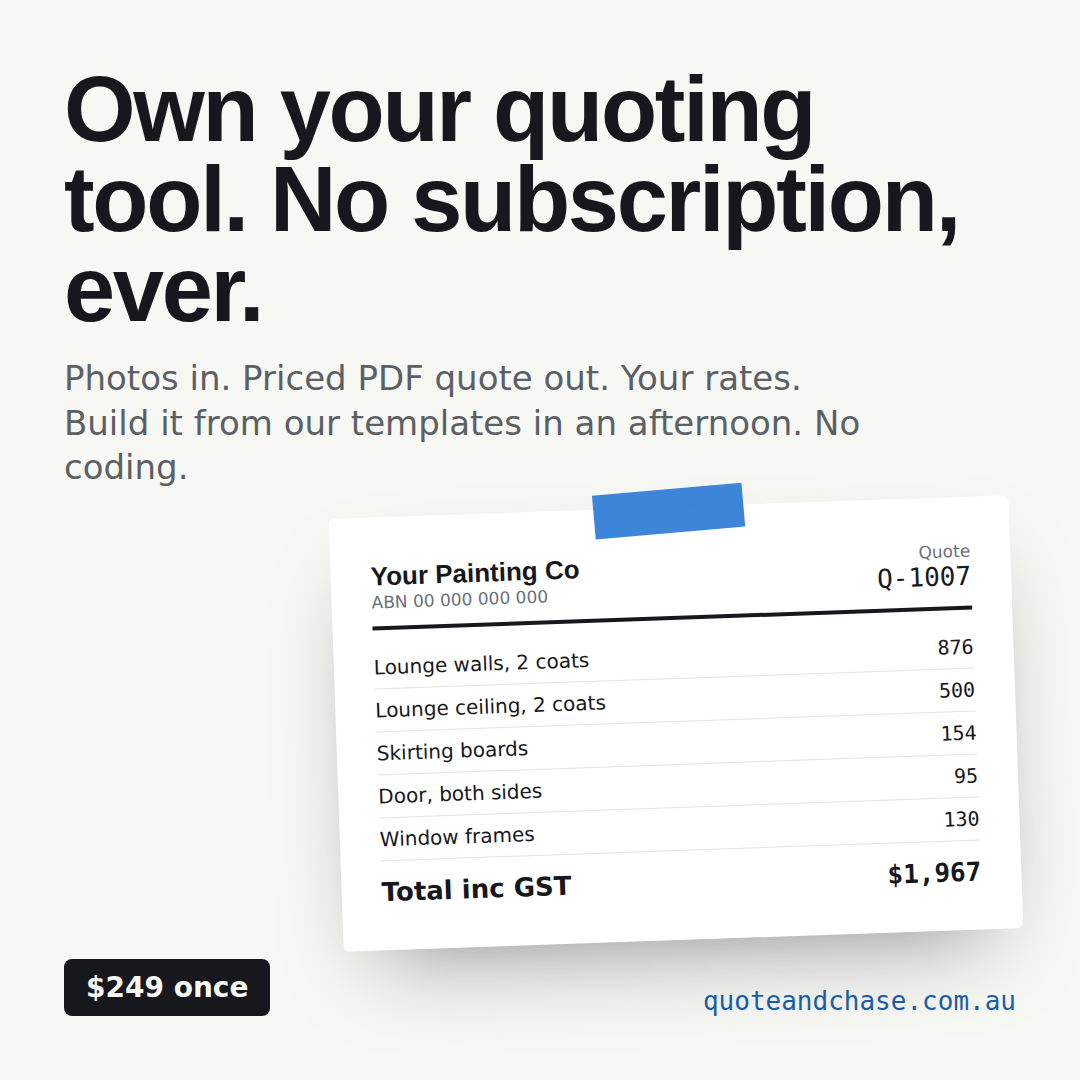
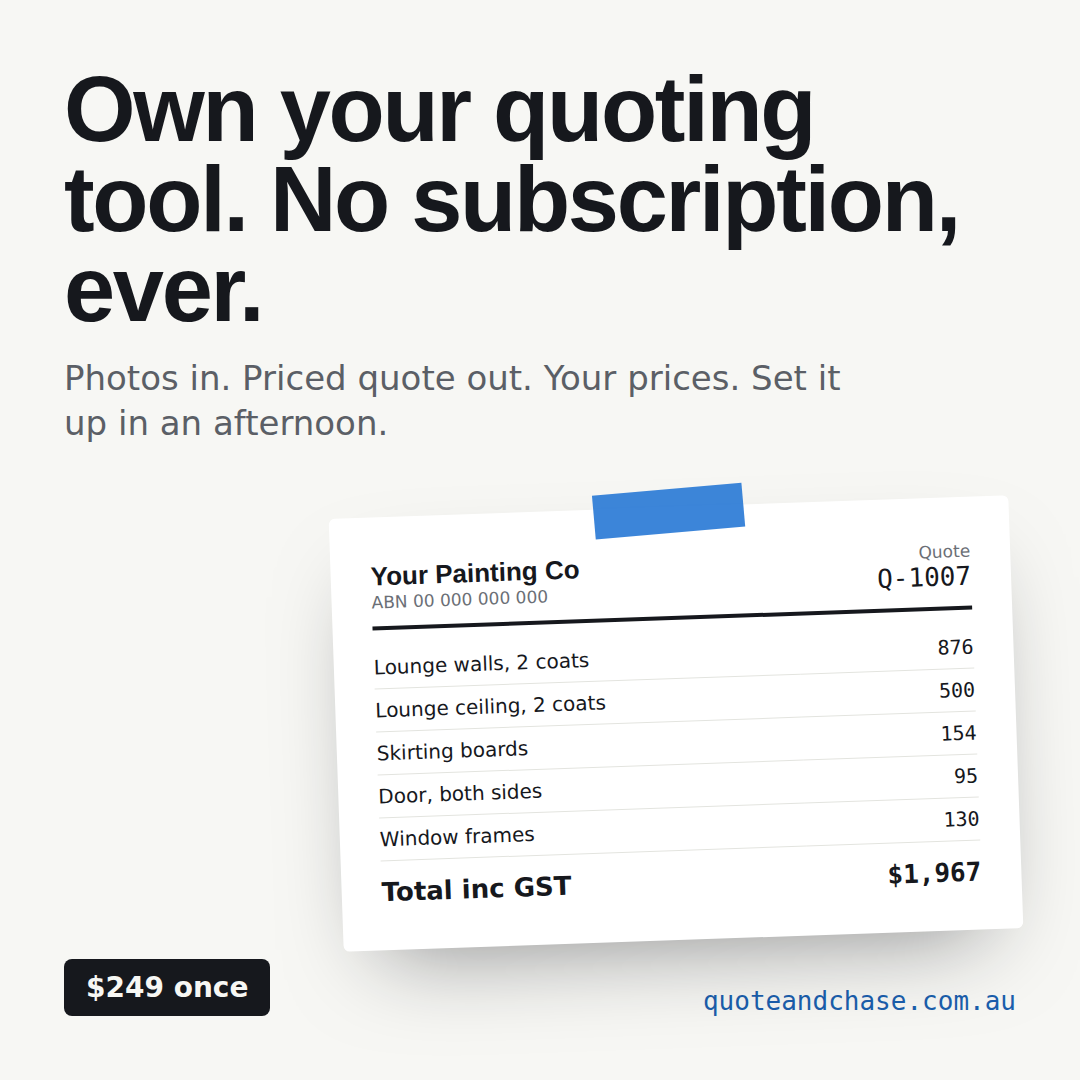
Plain-language copy: no commands, no jargon, Claude mentioned once
Claude-Session: https://claude.ai/code/session_01LwWqiJA3JDqKLsHUwEyFqC

Changed region(s): [[0.0611, 0.3361, 0.7944, 0.4583]]

diff --git a/quote-and-chase-landing/public/index.html b/quote-and-chase-landing/public/index.html
@@ -4,9 +4,9 @@
 <meta charset="utf-8">
 <meta name="viewport" content="width=device-width, initial-scale=1, viewport-fit=cover">
 <title>Quote and Chase</title>
-<meta name="description" content="A quoting tool for painters that you own. Photos in, PDF quote out, your rates. Build it from our templates in an afternoon. No subscription, ever.">
+<meta name="description" content="A quoting tool painters own. Photos in, priced quote out, your prices. Set it up in an afternoon. No subscription, ever.">
 <meta property="og:title" content="Quote and Chase: own your quoting tool">
-<meta property="og:description" content="Photos in, PDF quote out, your rates. Build it from our templates in an afternoon. $249 once, no subscription.">
+<meta property="og:description" content="Photos in, priced quote out, your prices. $249 once, no subscription.">
 <link rel="preconnect" href="https://fonts.googleapis.com">
 <link rel="preconnect" href="https://fonts.gstatic.com" crossorigin>
 <link rel="stylesheet" href="https://fonts.googleapis.com/css2?family=Bricolage+Grotesque:opsz,wght@12..96,500;12..96,700;12..96,800&family=Instrument+Sans:ital,wght@0,400;0,500;0,600;1,400&family=IBM+Plex+Mono:wght@400;500&display=swap">
@@ -124,10 +124,9 @@ nav .btn{padding:.6em 1em;font-size:.92rem}
 .fact small{font-family:var(--mono);font-size:.72rem;color:var(--muted)}
 
 /* how */
-.steps{display:grid;gap:22px;counter-reset:s}
+.steps{display:grid;gap:22px}
 @media (min-width:860px){.steps{grid-template-columns:repeat(3,1fr)}}
 .step{background:var(--soft);border-radius:8px;padding:22px;display:grid;gap:12px;align-content:start}
-.step::before{counter-increment:s;content:counter(s);font-family:var(--display);font-weight:800;font-size:2rem;line-height:1;color:var(--tape-deep)}
 .step code{font-family:var(--mono);font-size:.9rem;background:var(--paper);color:var(--doc-ink);padding:.35em .55em;border-radius:4px;display:inline-block;border:1px solid var(--line)}
 .step p{color:var(--muted)}
 
@@ -235,14 +234,14 @@ footer .wrap{display:grid;gap:8px}
 <header class="hero wrap" id="top">
   <div class="grid">
     <div class="stack">
-      <p class="eyebrow">A quoting tool for painters. Yours.</p>
+      <p class="eyebrow">For painters</p>
       <h1>Own your quoting tool. No subscription, ever.</h1>
-      <p class="lede">Photos in, priced PDF quote out, your rates. Build it from our templates in an afternoon. No coding.</p>
+      <p class="lede">Take photos of the room. Get a priced quote with your name on it. It lives on your laptop, uses your prices, and it's yours.</p>
       <div class="actions">
-        <a class="btn tape" href="#try">See what you'd own</a>
+        <a class="btn tape" href="#try">Try it on a wall</a>
         <a class="btn ghost" href="#price">Get it, $249 once</a>
       </div>
-      <p class="fine">Windows or Mac. Under an hour of lessons. <a href="sample-quote.pdf" target="_blank" rel="noopener">See a quote it made (PDF)</a>.</p>
+      <p class="fine">Windows or Mac. Set up in an afternoon. <a href="sample-quote.pdf" target="_blank" rel="noopener">See a quote it wrote (PDF)</a>.</p>
     </div>
 
     <div class="paper" aria-label="Example quote">
@@ -296,27 +295,27 @@ footer .wrap{display:grid;gap:8px}
 
 <div class="wrap">
   <div class="strip">
-    <div><b>Pay once</b><span>No per-job fees.</span></div>
-    <div><b>You build it</b><span>So you own it.</span></div>
-    <div><b>Nothing sent without you</b><span>It drafts. You send.</span></div>
-    <div><b>Change anything</b><span>It's just files in a folder.</span></div>
+    <div><b>Pay once</b><span>Not every month.</span></div>
+    <div><b>Your prices</b><span>Not ours.</span></div>
+    <div><b>You send it</b><span>It never does.</span></div>
+    <div><b>Yours to keep</b><span>Nobody can switch it off.</span></div>
   </div>
 </div>
 
 <section id="problem">
   <div class="wrap grid" style="gap:14px">
     <h2>You didn't start a painting business to type quotes at 9pm.</h2>
-    <p class="lede">Job software bills you per job and still leaves you doing the typing.</p>
+    <p class="lede">The apps charge you every month, and you still do the typing.</p>
   </div>
 </section>
 
 <section id="how">
   <div class="wrap grid" style="gap:28px">
-    <h2>Three commands. You build all three.</h2>
+    <h2>What it does</h2>
     <div class="steps">
-      <div class="step"><code>/quote 12 Wattle St</code><p>Photos and notes in. PDF quote out, with every assumption listed.</p></div>
-      <div class="step"><code>/invoice Q-1007 deposit</code><p>Deposit, final or full. Your bank details, your terms.</p></div>
-      <div class="step"><code>/chase</code><p>Who owes you, with the reminders drafted in your voice.</p></div>
+      <div class="step"><h3>Quotes</h3><p>Photos and a few notes in. A priced PDF quote out, with what it assumed written down for you to check.</p></div>
+      <div class="step"><h3>Invoices</h3><p>Deposit, final, or the lot. Your bank details, your terms, the due date worked out.</p></div>
+      <div class="step"><h3>Chasing</h3><p>Every Monday: who owes you, and the reminder messages written in your words. You copy, you send.</p></div>
     </div>
   </div>
 </section>
@@ -324,9 +323,9 @@ footer .wrap{display:grid;gap:8px}
 <section id="try" class="try">
   <div class="wrap grid">
     <div class="grid" style="gap:18px;align-content:start">
-      <p class="eyebrow">See what you'll build</p>
+      <p class="eyebrow">Try it</p>
       <h2>Point your phone at any wall.</h2>
-      <p class="lede">A sample quote in about twenty seconds.</p>
+      <p class="lede">You'll get a sample quote back in about twenty seconds.</p>
       <div class="qrbox only-desk">
         <div id="qr" aria-label="QR code linking to this demo"><img src="qr.svg" alt="QR code linking to this demo" width="220" height="220"></div>
         <b style="font-family:var(--display)">Scan with your phone</b>
@@ -337,9 +336,9 @@ footer .wrap{display:grid;gap:8px}
     <div class="demo" id="demo">
       <label class="drop" id="drop" for="photo">
         <img id="preview" alt="" hidden>
-        <span id="drop-text" class="only-desk"><b>Or choose a photo from this computer</b></span>
+        <span id="drop-text" class="only-desk"><b>Or pick a photo from this computer</b></span>
         <input type="file" id="photo" accept="image/*" capture="environment">
-        <span class="btn tape bigbtn" aria-hidden="true"><span class="only-desk-inline">Choose a photo</span><span class="only-phone-inline">Take a photo of a wall</span></span>
+        <span class="btn tape bigbtn" aria-hidden="true"><span class="only-desk-inline">Pick a photo</span><span class="only-phone-inline">Take a photo of a wall</span></span>
       </label>
       <textarea id="notes" placeholder="Optional: anything the photo doesn't show. e.g. Lounge, 5 by 4 m, same colour."></textarea>
       <button class="btn" id="go" type="button" disabled>Get a sample quote</button>
@@ -347,10 +346,10 @@ footer .wrap{display:grid;gap:8px}
       <div class="result" id="result" hidden></div>
       <form class="cap laptop" id="laptop" data-capture="laptop" action="#" method="post" hidden>
         <input type="hidden" name="list" value="send-to-laptop">
-        <label for="laptop-email"><b>Building it happens on a laptop.</b> Email yourself the link and the sample quote.</label>
+        <label for="laptop-email"><b>Setting it up happens on a laptop.</b> Email yourself the link and the sample quote.</label>
         <div class="row"><input type="email" id="laptop-email" name="email" placeholder="you@yourpainting.com.au" required autocomplete="email"><button class="btn tape" type="submit">Send to my laptop</button></div>
       </form>
-      <p class="fine" style="color:var(--muted);font-size:.85rem">Photo not stored. Demo prices, not an offer of work.</p>
+      <p class="fine" style="color:var(--muted);font-size:.85rem">Your photo isn't kept. Sample prices, not an offer of work.</p>
     </div>
   </div>
 </section>
@@ -358,24 +357,24 @@ footer .wrap{display:grid;gap:8px}
 <section id="inside">
   <div class="wrap grid g2" style="gap:40px">
     <div class="grid" style="gap:22px;align-content:start">
-      <h2>What's inside</h2>
+      <h2>What you get</h2>
       <ul class="list">
-        <li><div><b>Seven lessons, under an hour</b></div></li>
-        <li><div><b>Double-click set-up, Windows and Mac</b></div></li>
-        <li><div><b>The /quote, /invoice and /chase templates</b></div></li>
-        <li><div><b>A painter's price list and measuring rules</b></div></li>
-        <li><div><b>Quote and invoice templates</b></div></li>
-        <li><div><b>A safety file, and a sample job to practise on</b></div></li>
+        <li><div><b>Set-up that's a double-click, Windows or Mac</b></div></li>
+        <li><div><b>Seven short videos, under an hour all up</b></div></li>
+        <li><div><b>A painter's price list you change to yours</b></div></li>
+        <li><div><b>Quote and invoice layouts with your details on them</b></div></li>
+        <li><div><b>A practice job, so the first one just works</b></div></li>
+        <li><div><b>A person on email when you're stuck</b></div></li>
       </ul>
     </div>
     <div class="grid" style="gap:16px;align-content:start">
       <div class="not">
         <h3>Not included</h3>
-        <p>Scheduling, payments, client logins. Keep what you use for those.</p>
+        <p>Bookings, taking payments, client logins. Keep what you use for those.</p>
       </div>
       <div class="not">
         <h3>You need</h3>
-        <p>Windows 10 or 11, or macOS 13+. A Claude Pro subscription, paid to Anthropic.</p>
+        <p>A Windows or Mac laptop, and a Claude subscription. That's the brains behind it, about $30 a month, paid to them, not us.</p>
       </div>
     </div>
   </div>
@@ -395,11 +394,11 @@ footer .wrap{display:grid;gap:8px}
       <div class="tier featured">
         <p class="eyebrow">Own it</p>
         <div class="price">$249<small>AUD, once</small></div>
-        <p class="tierlede">Build it yourself from our templates in an afternoon. Runs on your laptop. No subscription, ever.</p>
+        <p class="tierlede">You set it up on your laptop in an afternoon, following the videos. Then it's yours.</p>
         <ul>
-          <li>Seven lessons and the installers</li>
-          <li>All the templates</li>
+          <li>Everything above</li>
           <li>Updates for a year</li>
+          <li>Email help with the set-up</li>
         </ul>
         <div class="buy">
           <a class="btn tape" href="#" data-checkout>Get it</a>
@@ -408,11 +407,11 @@ footer .wrap{display:grid;gap:8px}
       <div class="tier">
         <p class="eyebrow">We run it for you</p>
         <div class="price">$39<small>AUD a month</small></div>
-        <p class="tierlede">Same tool, hosted by us. Nothing to install, works on your phone. Your prices, wording and templates export any time, and the course is included, so if you ever leave, you leave with the tool.</p>
+        <p class="tierlede">Nothing to set up. Works on your phone. If you ever leave, you take your prices and your tool with you.</p>
         <ul>
           <li>Founding list, opening <span data-hosted-date>later this year</span></li>
           <li>Founding members keep this price</li>
-          <li>Cancel any time, take your tool with you</li>
+          <li>Cancel any time</li>
         </ul>
         <div class="buy">
           <a class="btn ghost" href="#" data-hosted>Join the founding list</a>
@@ -424,8 +423,8 @@ footer .wrap{display:grid;gap:8px}
         </div>
       </div>
     </div>
-    <div class="guarantee" style="max-width:720px"><b>One working quote in 14 days, or your money back.</b>Or switch to the hosted version and we credit your $249 to the first year.</div>
-    <p class="fine" style="color:var(--muted)">Founding price. Written lessons and templates today; video lessons <span data-lessons-date>within 14 days of purchase</span>.</p>
+    <div class="guarantee" style="max-width:720px"><b>One real quote out in 14 days, or your money back.</b>Or switch to the run-it-for-you version and we credit the $249.</div>
+    <p class="fine" style="color:var(--muted)">Founding price. The tool and written guide today; the videos <span data-lessons-date>within 14 days of purchase</span>.</p>
     <form id="waitlist" action="#" method="post" data-form class="waitform">
       <input type="hidden" name="list" value="sample-quote">
       <label for="email" style="font-weight:600;font-size:.95rem">Not ready? Get the sample quote by email.</label>
@@ -441,19 +440,18 @@ footer .wrap{display:grid;gap:8px}
   <div class="wrap grid" style="gap:20px">
     <h2>Questions</h2>
     <div>
-      <details><summary>Why build it myself?</summary><p>No subscription, and a tool you built you can change. Next month you'll want the next thing, and you'll know how to ask for it.</p></details>
-      <details><summary>What if I don't want to build it?</summary><p>Join the hosted list. Same tool, we run it, nothing to install. And if you buy the owned version and get stuck, your $249 becomes credit on the hosted one.</p></details>
-      <details><summary>Do I need to know computers?</summary><p>If you can make a folder and type a sentence, yes. No coding.</p></details>
-      <details><summary>Is it safe?</summary><p>It lives in one folder, asks before running anything, and never sends a quote or a text. You do.</p></details>
-      <details><summary>What does Claude cost?</summary><p>A Claude Pro subscription, paid to Anthropic. We don't take a cut.</p></details>
-      <details><summary>Does it connect to ServiceM8 or Xero?</summary><p>Not out of the box. It makes PDFs and a spreadsheet you can use anywhere. Lesson seven shows you how to ask for more.</p></details>
+      <details><summary>Do I need to be good with computers?</summary><p>If you can make a folder and type a sentence, you're fine. Set-up is double-clicks and the videos show every step.</p></details>
+      <details><summary>What's the catch with "no subscription"?</summary><p>One thing it needs isn't ours: a Claude subscription, about $30 a month, paid to Anthropic. It's the brains. We don't take a cut, and you can cancel it whenever you like.</p></details>
+      <details><summary>What if I get stuck?</summary><p>Email us. A person replies. And if you decide you'd rather we ran it for you, your $249 becomes credit.</p></details>
+      <details><summary>Is my stuff safe?</summary><p>It all lives in one folder on your laptop. It never sends a quote or a message. You do.</p></details>
+      <details><summary>Does it work with ServiceM8 or Xero?</summary><p>It makes PDFs and a spreadsheet, and you can use those anywhere. It isn't plugged into them directly.</p></details>
     </div>
   </div>
 </section>
 
 <footer>
   <div class="wrap">
-    <p><b>Quote &amp; Chase</b>, a quoting tool painters own. Not affiliated with Anthropic; Claude and Claude Code are their trademarks.</p>
+    <p><b>Quote &amp; Chase</b>, a quoting tool painters own. Not affiliated with Anthropic; Claude is their trademark.</p>
     <p>ABN <span data-abn>00 000 000 000</span> · <a data-mail href="mailto:hello@example.com">hello@example.com</a> · <a href="privacy">Privacy</a> · <a href="terms">Terms and refunds</a></p>
   </div>
 </footer>
@@ -498,7 +496,7 @@ footer .wrap{display:grid;gap:8px}
       imageB64 = dataUrl.split(',')[1];
       preview.src = dataUrl; preview.hidden = false; dropText.hidden = true; drop.classList.add('has');
       go.disabled = false; result.hidden = true;
-      setStatus('Ready. Add a note if you like, then get the quote.');
+      setStatus('Got it. Add a note if you like, then get the quote.');
       go.scrollIntoView({ block: 'nearest', behavior: 'smooth' });
     }).catch(function(e){ setStatus(e.message, true); });
   });
@@ -513,7 +511,7 @@ footer .wrap{display:grid;gap:8px}
     var rows = q.line_items.map(function(li){
       return '<tr><td>' + esc(li.description) + '<br><span style="color:var(--doc-muted);font-size:.85em">' + li.qty + ' ' + esc(li.unit) + ' × ' + money(li.rate) + '</span></td><td class="n">' + money(li.amount) + '</td></tr>';
     }).join('');
-    var tag = q.sample ? '<span class="tag">Example result</span>' : '<span class="tag">Sample quote from your photo</span>';
+    var tag = q.sample ? '<span class="tag">Example result</span>' : '<span class="tag">Sample quote from your wall</span>';
     result.innerHTML =
       tag + '<h3>' + esc(q.job_title) + '</h3>' +
       '<p class="see">' + esc(q.what_i_can_see) + '</p>' +
@@ -524,7 +522,7 @@ footer .wrap{display:grid;gap:8px}
       (q.assumptions && q.assumptions.length ? '<div><b style="font-size:.9rem">Based on</b><ul>' + q.assumptions.map(function(a){ return '<li>' + esc(a) + '</li>'; }).join('') + '</ul></div>' : '') +
       (q.questions_for_client && q.questions_for_client.length ? '<div><b style="font-size:.9rem">Worth asking the client</b><ul>' + q.questions_for_client.map(function(a){ return '<li>' + esc(a) + '</li>'; }).join('') + '</ul></div>' : '') +
       (note ? '<p class="fine">' + esc(note) + '</p>' : '') +
-      '<p class="fine">Demo price list. The one you build uses your rates, and the quote lands as a PDF with your name on it.</p>';
+      '<p class="fine">Sample prices. Yours uses your rates and lands as a PDF with your name on it.</p>';
     result.hidden = false;
     if (window.matchMedia('(max-width: 959px)').matches) { var lap = document.getElementById('laptop'); if (lap && !lap.querySelector('.done')) lap.hidden = false; }
     result.scrollIntoView({ block: 'start', behavior: 'smooth' });
@@ -535,7 +533,7 @@ footer .wrap{display:grid;gap:8px}
   var EXAMPLE = null; // filled from the server's sample shape if the demo is offline
   go.addEventListener('click', function(){
     if (!imageB64) return;
-    go.disabled = true; setStatus('Looking at the photo and pricing it up… about twenty seconds.');
+    go.disabled = true; setStatus('Pricing it up. About twenty seconds.');
     var body = JSON.stringify({ image: imageB64, media_type: 'image/jpeg', notes: notes.value.slice(0, 600) });
     var ctrl = ('AbortController' in window) ? new AbortController() : null;
     var timer = ctrl && setTimeout(function(){ ctrl.abort(); }, 75000);
@@ -543,12 +541,12 @@ footer .wrap{display:grid;gap:8px}
       .then(function(r){ return r.json().then(function(j){ return { ok: r.ok, j: j }; }); })
       .then(function(x){
         if (!x.ok) { setStatus(x.j.error || 'Something went wrong. Try again.', true); return; }
-        setStatus(x.j.sample ? 'Showing an example result. The live estimator is not connected on this page yet.' : 'Done. Scroll for the sample quote.');
+        setStatus(x.j.sample ? 'Showing an example. The live version isn\'t switched on for this page yet.' : 'Done. Scroll for the sample quote.');
         render(x.j);
       })
       .catch(function(){
-        setStatus('Could not reach the estimator from here. Showing an example of what comes back.', true);
-        render(exampleQuote(), 'Example only: the demo server is not connected on this copy of the page.');
+        setStatus('Couldn\'t reach the server from here. Showing an example of what comes back.', true);
+        render(exampleQuote(), 'Example only: the live version isn\'t connected on this copy of the page.');
       })
       .finally(function(){ if (timer) clearTimeout(timer); go.disabled = false; });
   });

diff --git a/quote-and-chase-landing/public/thanks.html b/quote-and-chase-landing/public/thanks.html
@@ -17,7 +17,7 @@ a.btn{display:inline-block;background:var(--tape);color:#fff;text-decoration:non
 </style>
 </head>
 <body><main>
-<h1>You are in. Lesson one starts now.</h1>
+<h1>You're in. Here's tonight.</h1>
 <p>Your files are below. Set-up takes about three minutes, your first quote about five.</p>
 <div class="box">
   <b>1. Set up Claude Code</b>
@@ -30,8 +30,8 @@ a.btn{display:inline-block;background:var(--tape);color:#fff;text-decoration:non
   <p><a class="btn" href="downloads/quote-and-chase-painters.zip">Quote and Chase for painters</a></p>
 </div>
 <div class="box">
-  <b>3. Lessons</b>
-  <p>The written lessons are inside the Quote and Chase zip. The video lessons arrive by email on the date shown on the sales page. If anything blocks you before then, email <a data-mail href="mailto:hello@example.com">hello@example.com</a> and a person will reply.</p>
+  <b>3. The videos</b>
+  <p>The written guide is inside the Quote and Chase zip. The videos arrive by email on the date shown on the sales page. If anything blocks you before then, email <a data-mail href="mailto:hello@example.com">hello@example.com</a> and a person will reply.</p>
 </div>
 <p>Keep this page's link; it is your download page. If your checkout provider also emailed you links, either works.</p>
 <p>Stuck, or decided you would rather we ran it for you? Email us within 14 days and your $249 becomes credit on the hosted version.</p>

diff --git a/quote-and-chase/launch/creative/ad-still-source.html b/quote-and-chase/launch/creative/ad-still-source.html
@@ -21,7 +21,7 @@ tr.total td{border:0;font-weight:700;font-size:26px;padding-top:16px}
 .pill{background:#16181D;color:#F7F7F4;padding:12px 22px;border-radius:8px;font-size:28px;font-weight:600}
 </style></head><body>
 <div class="ad ADCLASS">
-  <div><h1>Own your quoting tool. No subscription, ever.</h1><p class="sub">Photos in. Priced PDF quote out. Your rates. Build it from our templates in an afternoon. No coding.</p></div>
+  <div><h1>Own your quoting tool. No subscription, ever.</h1><p class="sub">Photos in. Priced quote out. Your prices. Set it up in an afternoon.</p></div>
   <div></div>
   <div class="foot"><span class="pill">$249 once</span><span class="url">YOURDOMAIN</span></div>
   <div class="paper"><span class="tape"></span>

diff --git a/quote-and-chase/launch/meta-ads.md b/quote-and-chase/launch/meta-ads.md
@@ -1,8 +1,8 @@
 # Meta ads: first campaign for the Quote and Chase course (painters)
 
 Positioning: "Own it." A quoting tool that is theirs. No subscription,
-ever. They build it from our templates in an afternoon, on their own
-laptop, no coding. The ad sells ownership and the end of per-job fees;
+ever. They set it up themselves in an afternoon, on their own laptop,
+following the videos. The ad sells ownership and the end of per-job fees;
 the page offers the hosted version to anyone who would rather not build.
 
 ## Structure
@@ -38,8 +38,8 @@ Photos of the room in, priced PDF quote out, using YOUR rates. It
 writes the invoice, and on Monday it lists who owes you and drafts the
 reminders.
 
-You build it yourself from our templates in an afternoon. No coding.
-$249 once, then it's yours. No per-job fees, no per-user seats, no SMS
+You set it up yourself in an afternoon, following the videos. $249
+once, then it's yours. No per-job fees, no per-user seats, no SMS
 credits, nobody can switch it off.
 
 See what you'd own. Point your phone at a wall: [link]
@@ -51,41 +51,42 @@ Own the tool that does the typing. Drop your phone photos into a
 folder, add a few notes, and your own quoting tool prices the job from
 your rates and writes the PDF. Invoices and payment reminders too.
 
-Built by you from our templates in an afternoon, no coding, on your
-laptop. Pay once. Change anything you like. Never rent it.
+You set it up on your laptop in an afternoon. Pay once. Change
+anything you like. Never rent it.
 
 Try what you'd build on any wall: [link]
 
 **3. The short one.**
-A quoting tool you own. Photos in, PDF quote out, your rates. Build it
-from our templates in an afternoon. $249 once, no subscription, ever.
+A quoting tool you own. Photos in, priced quote out, your prices. Set
+it up in an afternoon. $249 once, no subscription, ever.
 
 For painters with one to five on the tools. Tap to see it quote a wall: [link]
 
 ## Headlines (pick two to test)
 
 - Own your quoting tool. No subscription, ever.
-- Stop renting software. Build yours in an afternoon.
+- Stop renting software. Own yours.
 - Photos in. PDF quote out. Yours forever.
 - Stop typing quotes at 9pm
 - $249 once. Never per job.
 
 ## Descriptions
 
-- Built from our templates. No coding. 14-day money-back guarantee.
-- Runs on your laptop. Your rates, your wording, your files.
+- Set up in an afternoon. 14-day money-back guarantee.
+- Lives on your laptop. Your prices, your words, your files.
 
 ## Creative
 
 **Video (preferred):** 30 seconds. Open on the phone taking a photo of
 a wall, cut to the laptop typing `/quote`, speed through the run, land
 on the PDF total, then a two-second shot of the price list file with
-the cursor changing a number: "your rates, your file". End card: "Own
+the cursor changing a number: "your prices". End card: "Own
 it. $249 once." and the URL. Captions on; most Reels play muted.
 
 **Still (launch tonight if the video is not ready):** screenshot the
 landing page hero's quote card on a plain background, headline "Own
 your quoting tool. No subscription, ever." top left. 1:1 and 4:5.
+Both are in `launch/creative/`.
 
 ## Landing
 
@@ -99,6 +100,6 @@ and for people watching the ad on a desktop.
 No income or savings figures you cannot show. No "Anthropic approved"
 or logos. No "replaces ServiceM8" in ad copy; "no subscription, ever"
 makes the point without naming anyone. Do not target under 25. Do not
-say "AI builds it for you"; say "you build it from our templates",
-which is true and is the point. "Own it" must stay literally true: it
+say "AI builds it for you"; say "you set it up yourself", which is
+true and is the point. "Own it" must stay literally true: it
 is files on their laptop, and the page says so.
